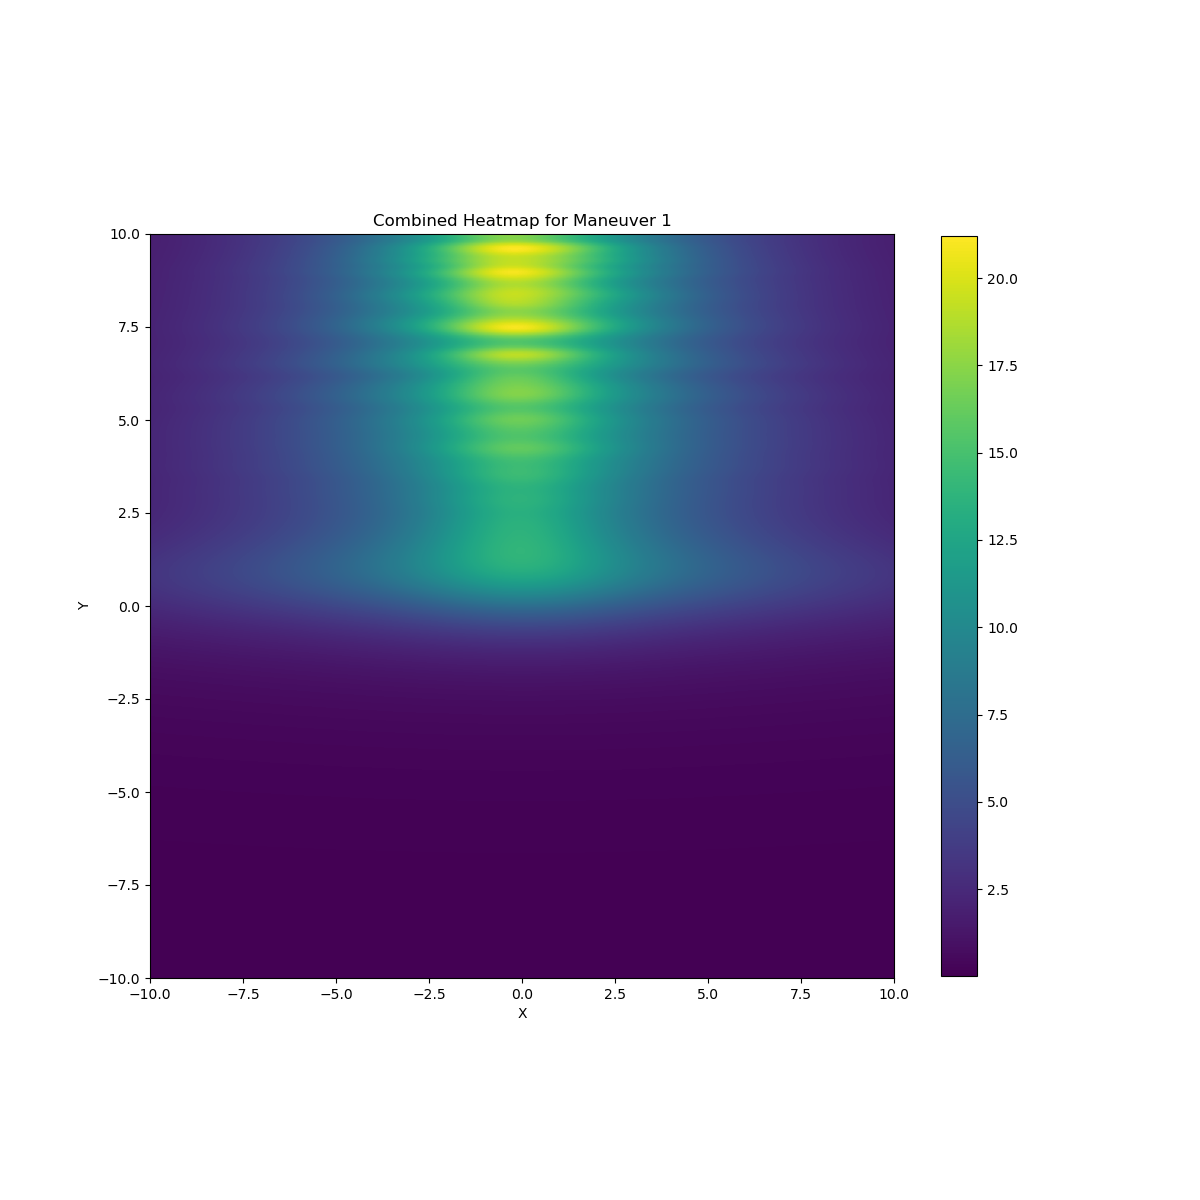
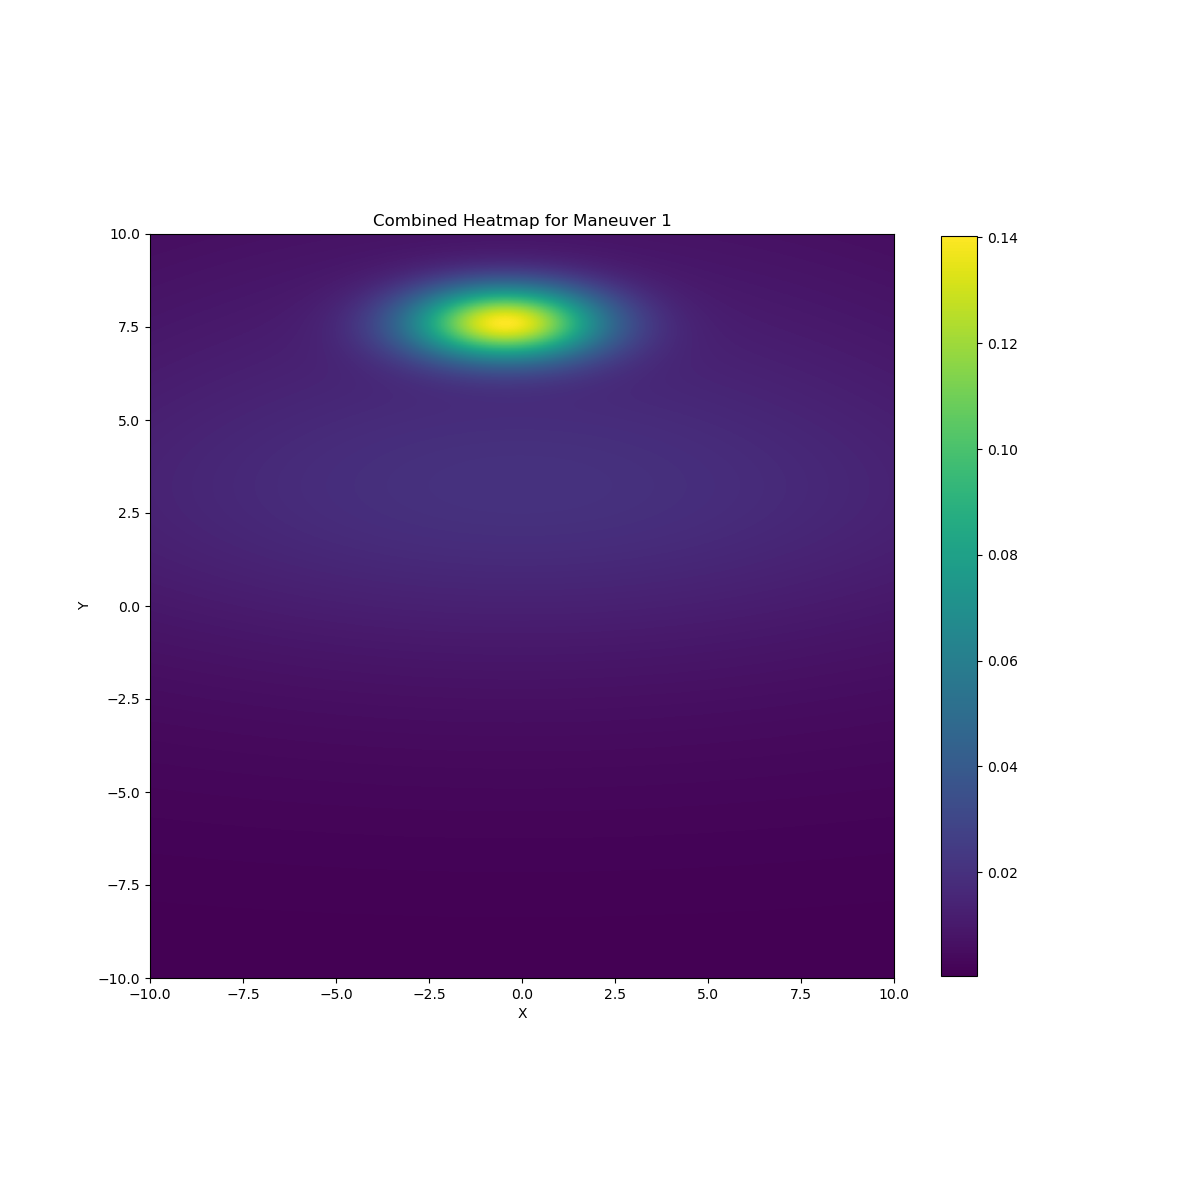
test this out when you get back home

Changed region(s): [[0.1233, 0.185, 0.74, 0.555]]

diff --git a/conv-social-pooling/codes/Louis_Trajectory_Prediction.py b/conv-social-pooling/codes/Louis_Trajectory_Prediction.py
@@ -149,6 +149,9 @@ def generate_normal_distribution(fut_pred, maneuver_num, batch_num):
         for i in range(len(muX_flat)):
             if i % 10 == 0:
                 print(f'processing {i}/{len(muX_flat)}')
+
+            if i >= 10:
+                break 
             mean = [muX_flat[i], muY_flat[i]]
             cov = [[sigX_flat[i]**2, 0], [0, sigY_flat[i]**2]]
             rv = multivariate_normal(mean, cov)
@@ -161,7 +164,7 @@ def generate_normal_distribution(fut_pred, maneuver_num, batch_num):
         ax.set_ylabel('Y')
         ax.set_title(f'Combined Heatmap for Maneuver {m+1}')
         plt.colorbar(heatmap, ax=ax, shrink=0.8)
-        plt.savefig(f'plots/combined_heatmap_maneuver_{m+1}_batch_{batch_num}.png')
+        plt.savefig(f'plots/combined_heatmap_maneuver_{m+1}.png')
         plt.close(fig)  # Close the figure after saving     
 
 def create_object(muX, muY, sigX, sigY): # Helper function to create an object of muX, muY, sigX, sigY 
@@ -399,6 +402,7 @@ def main(): # Main function
             # Generate and save the distribution plots
             if i == 0:
                 generate_normal_distribution(fut_pred_np, lane, i)
+                break
                 
       
             # predicted_traj = predict_trajectories(original_data, overpass_start,overpass_end,lane,fut_pred_np,count) # where the function is called and I feed in maneurver pred and future prediction points         
